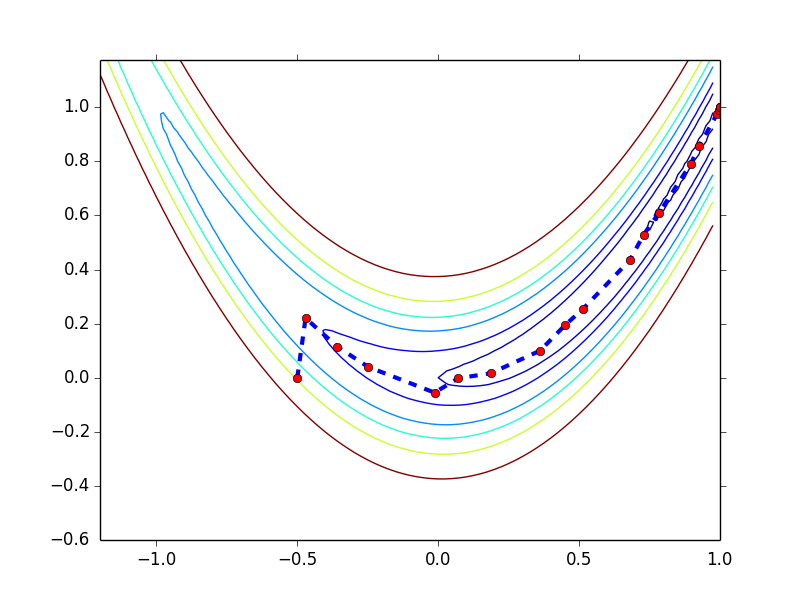
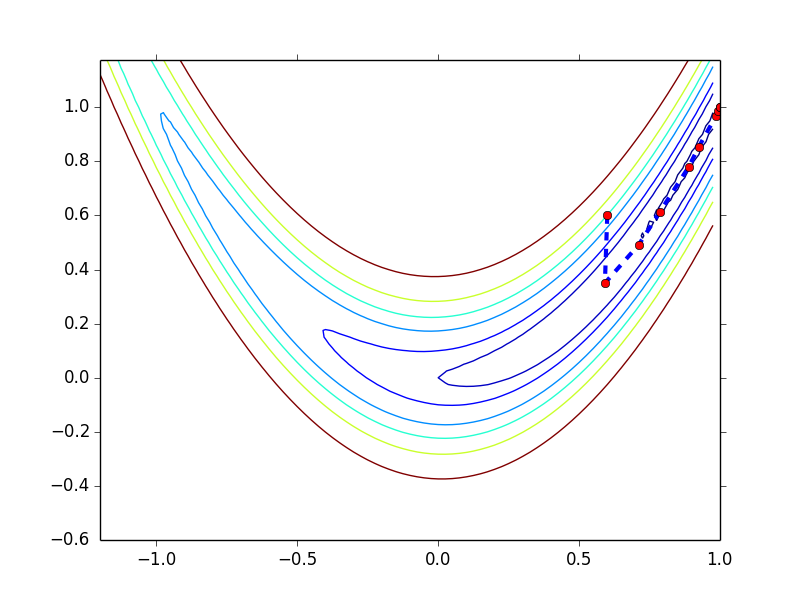
[np09]: update

diff --git a/resource/NNP/09-newton/examples.py b/resource/NNP/09-newton/examples.py
@@ -120,8 +120,7 @@ Z = 100 * (Y - X * X) * (Y - X * X) + (1 - X) * (1 - X)
 plt.figure()
 plt.contour(X, Y, Z, [15, 9, 6, 4, 2, 1, 0.1])
 
-# res = classical_newton_r((0.6, 0.6))
-res = classical_newton_r((-0.5, 0))
+res = classical_newton_r((0.6, 0.6))
 
 xp, yp = zip(*res)
 plt.plot(xp, yp, '--', lw=3)
